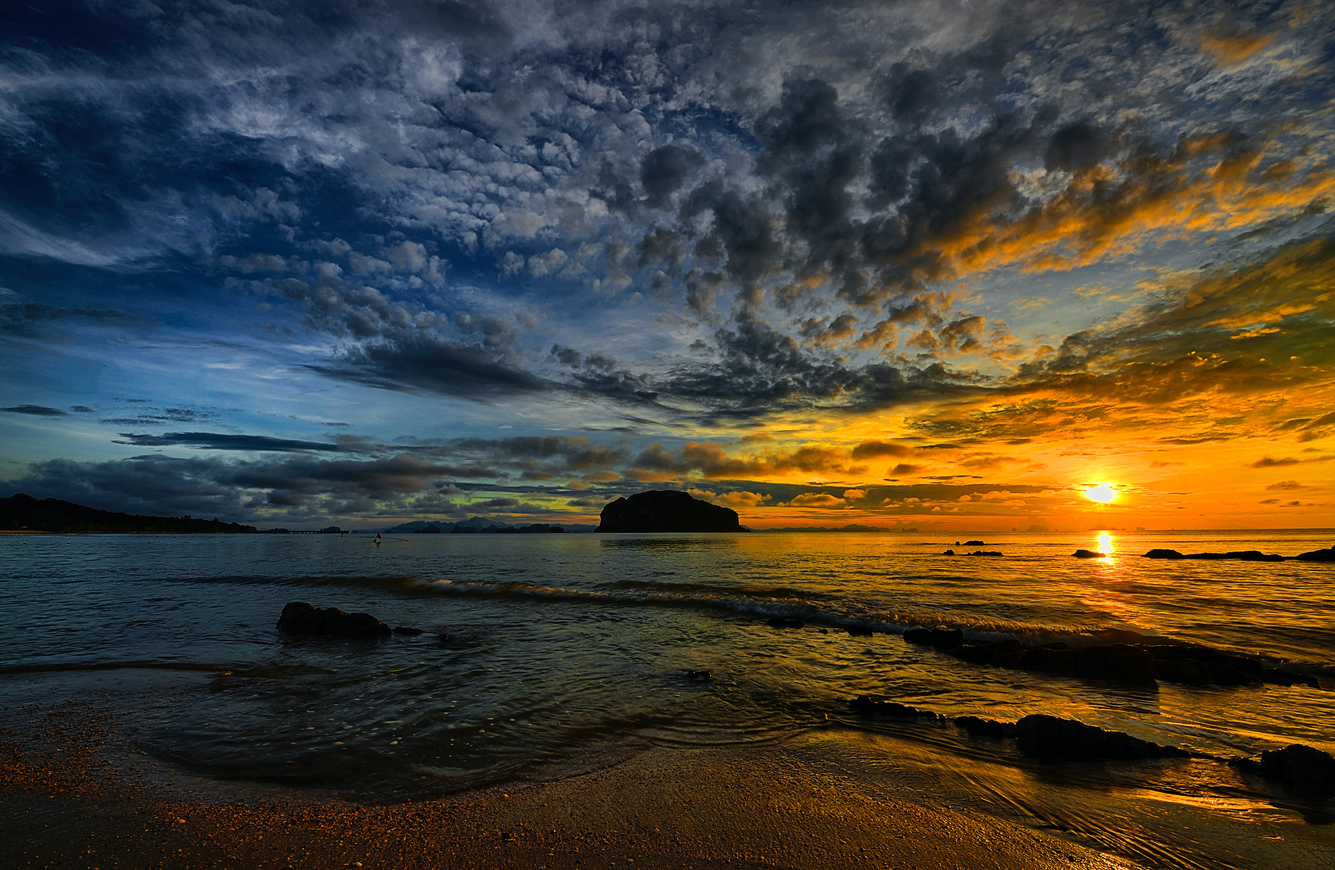
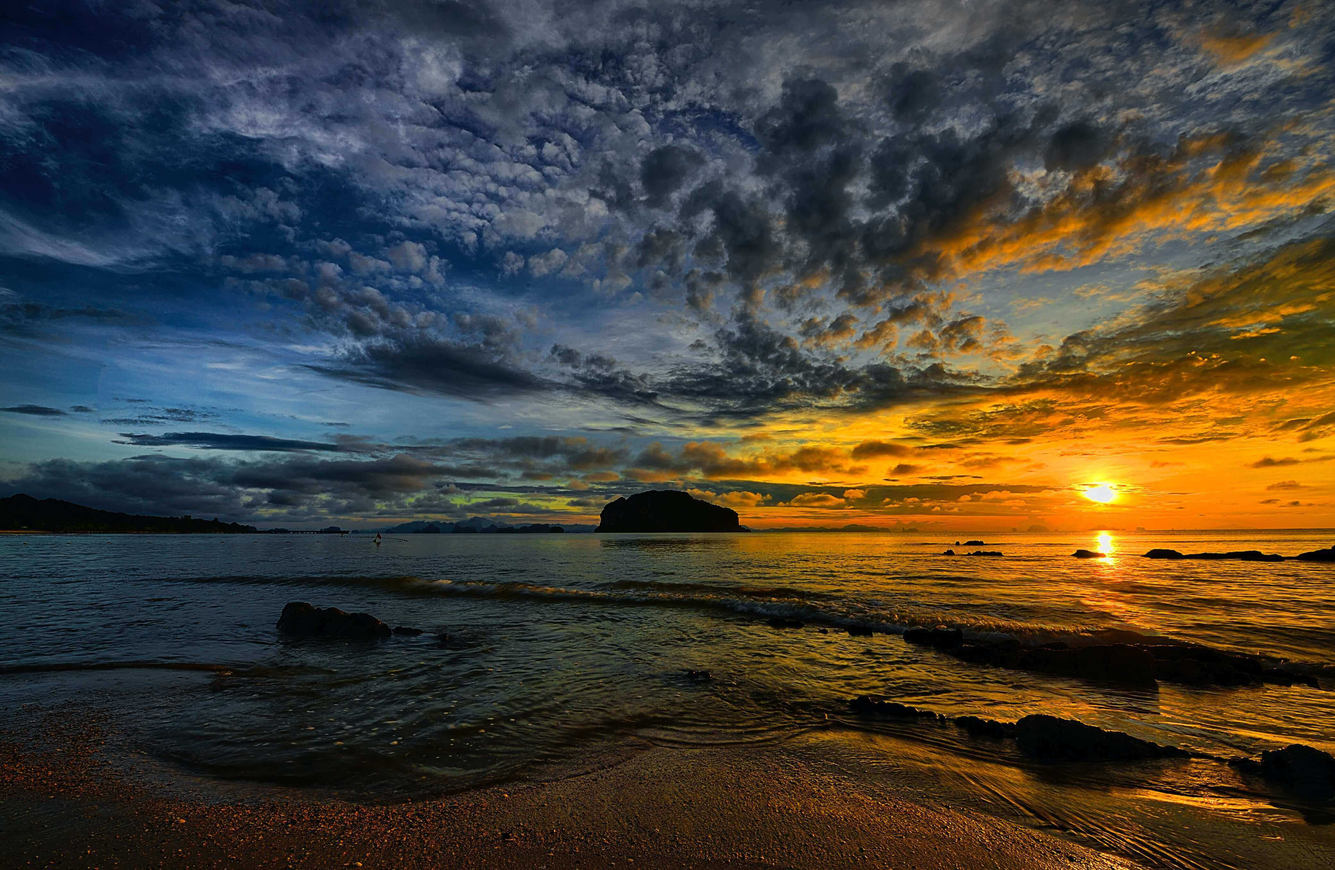
change 1

diff --git a/Chakshu/index.html b/Chakshu/index.html
@@ -95,7 +95,7 @@
             <p>Lorem, ipsum dolor sit amet consectetur adipisicing elit. Ad, iusto cupiditate voluptatum impedit unde rem ipsa distinctio illum quae mollitia ut, accusantium eius odio ducimus illo neque atque libero non sunt harum? Ipsum repellat animi, fugit architecto voluptatum odit et!</p>
           </div>
           <div class="project-img">
-            <img src="./img/img-1.png" alt="img">
+            <img src="./img/img-1.jpg" alt="img">
           </div>
         </div>
         <div class="project-item">
@@ -105,7 +105,7 @@
             <p>Lorem, ipsum dolor sit amet consectetur adipisicing elit. Ad, iusto cupiditate voluptatum impedit unde rem ipsa distinctio illum quae mollitia ut, accusantium eius odio ducimus illo neque atque libero non sunt harum? Ipsum repellat animi, fugit architecto voluptatum odit et!</p>
           </div>
           <div class="project-img">
-            <img src="./img/img-1.png" alt="img">
+            <img src="./img/img-1.jpg" alt="img">
           </div>
         </div>
         <div class="project-item">
@@ -115,7 +115,7 @@
             <p>Lorem, ipsum dolor sit amet consectetur adipisicing elit. Ad, iusto cupiditate voluptatum impedit unde rem ipsa distinctio illum quae mollitia ut, accusantium eius odio ducimus illo neque atque libero non sunt harum? Ipsum repellat animi, fugit architecto voluptatum odit et!</p>
           </div>
           <div class="project-img">
-            <img src="./img/img-1.png" alt="img">
+            <img src="./img/img-1.jpg" alt="img">
           </div>
         </div>
         <!-- ADD PROJECTS HERE IF REQUIRED -->
@@ -129,7 +129,7 @@
     <div class="about container">
       <div class="col-left">
         <div class="about-img">
-          <img src="./img/img-1.png" alt="img">
+          <img src="./img/img-1.jpg" alt="img">
         </div>
       </div>
       <div class="col-right">
@@ -141,6 +141,7 @@
         <a href="#" class="cta">Download File 3</a>
         <a href="#" class="cta">Download File 4</a>
         <a href="#" class="cta">Download File 5</a>
+        <a href="#" class="cta">Download File 6</a>
       </div>
     </div>
   </section>
@@ -152,7 +153,7 @@
       <div><h1 class="section-title">Contact <span>info</span></h1></div>
       <div class="contact-items">
         <div class="contact-item">
-          <div class="icon"><img src="https://img.icons8.com/bubbles/100/000000/phone.png"/></div>
+          <div class="icon"><img src="./img/phone.png"/></div>
           <div class="contact-info">
             <h1>Phone</h1>
             <h2>+91 xxxxxxxxxx</h2>
@@ -160,14 +161,15 @@
           </div>
         </div>
         <div class="contact-item">
-          <div class="icon"><img src="https://img.icons8.com/bubbles/100/000000/new-post.png"/></div>
+          <div class="icon"><img src="./img/mail.png"/></div>
           <div class="contact-info">
             <h1>Email</h1>
             <h2>abcd@email.com</h2>
           </div>
         </div>
         <div class="contact-item">
-          <div class="icon"><img src="https://img.icons8.com/bubbles/100/000000/map-marker.png"/></div>
+          <!-- <div class="icon"><img src="https://img.icons8.com/bubbles/100/000000/map-marker.png"/></div> -->
+          <div class="icon"><img src="./img/office.png"/></div>
           <div class="contact-info">
             <h1>Address</h1>
             <h2>Borivali-East, Mumbai-400 066</h2>
@@ -181,7 +183,8 @@
   <!-- Footer -->
   <section id="footer">
     <div class="footer">
-      <div class="brand"><h1><span>R</span>OUNAK<span>  N</span>AYEE</h1></div>
+      <!-- <h1><SPAN>R</SPAN>ROUNAK NAYEE</h1> -->
+      <div class="fbrand"><h1><span>R</span>OUNAK  <span>N</span>AYEE</h1></div>
       <!-- <h2>Your Complete Web Solution</h2>
       <div class="social-icon">
         <div class="social-item">

diff --git a/Chakshu/style.css b/Chakshu/style.css
@@ -4,6 +4,25 @@
 	margin: 0;
 	box-sizing: border-box;
 }
+/* width */
+::-webkit-scrollbar {
+	width: 10px;
+  }
+  
+  /* Track */
+  ::-webkit-scrollbar-track {
+	background: #485563;
+  }
+  
+  /* Handle */
+  ::-webkit-scrollbar-thumb {
+	background: #FFCEA2;
+  }
+  
+  /* Handle on hover */
+  ::-webkit-scrollbar-thumb:hover {
+	background: #aa6c39;
+  }
 html {
 	font-size: 10px;
 	font-family: 'Montserrat', sans-serif;
@@ -43,7 +62,7 @@ p {
 }
 .section-title span {
 	color: #aa6c39;
-	/* color: crimson; */
+	/* color: #aa6c39; */
 }
 
 .cta {
@@ -69,7 +88,8 @@ p {
 .brand h1 {
 	font-size: 3rem;
 	text-transform: uppercase;
-	margin-left: 10px;
+	margin-left: 6px;
+	margin-bottom: 4px;
 	color: white;
 }
 .brand h1 span {
@@ -85,6 +105,8 @@ p {
 	width: 100vw;
 	height: auto;
 	background-color: rgba(41,50,60,0.5);
+	box-shadow:  0px 0px 18px 0 rgba(0, 0, 0, 0.2);
+	
 }
 #header .header {
 	min-height: 8vh;
@@ -176,7 +198,7 @@ p {
 	height: 2px;
 	width: 30px;
 	position: relative;
-	background-color: white;
+	background-color: #aa6c39;
 	z-index: -1;
 }
 #header .hamburger .bar::after,
@@ -186,7 +208,7 @@ p {
 	height: 100%;
 	width: 100%;
 	left: 0;
-	background-color: white;
+	background-color: #aa6c39;
 	transition: .3s ease;
 	transition-property: top, bottom;
 }
@@ -297,7 +319,7 @@ p {
 	flex-direction: column;
 	padding: 30px;
 	border-radius: 10px;
-	background-image: url(./img/img-1.png);
+	background-image: url(./img/img-1.jpg);
 	background-size: cover;
 	margin: 10px 5%;
 	position: relative;
@@ -448,7 +470,7 @@ p {
 	top: 19px;
 	height: 98%;
 	width: 98%;
-	border: 7px solid crimson;
+	border: 7px solid #aa6c39;
 	z-index: -1;
 }
 /* End About Section */
@@ -505,11 +527,20 @@ p {
 	flex-direction: column;
 	padding-top: 35px;
 	padding-bottom: 10px;
+	text-align: center;
 }
 
 #footer p {
 	color: white;
 	font-size: 1.3rem;
+}
+.fbrand h1 {
+	font-size: 3rem;
+	text-transform: uppercase;
+	color: white;
+}
+.fbrand h1 span {
+	color: #FFCEA2;
 }
 /* #footer h2 {
 	color: white;
@@ -630,7 +661,7 @@ p {
 		top: 34px;
 		height: 98%;
 		width: 98%;
-		border: 10px solid crimson;
+		border: 10px solid #aa6c39;
 	}
 	#about .col-right {
 		text-align: left;
